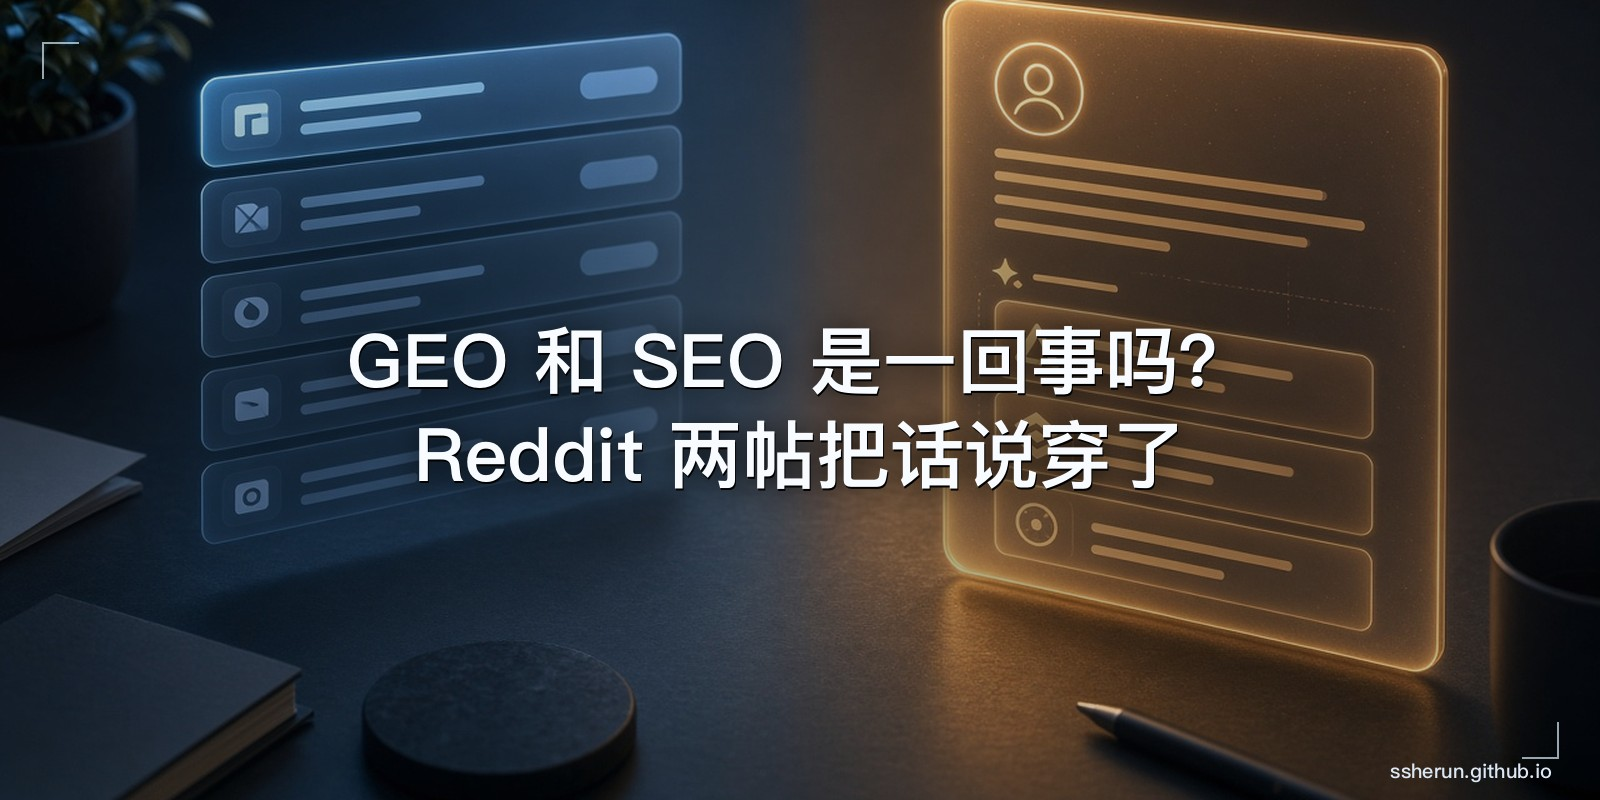
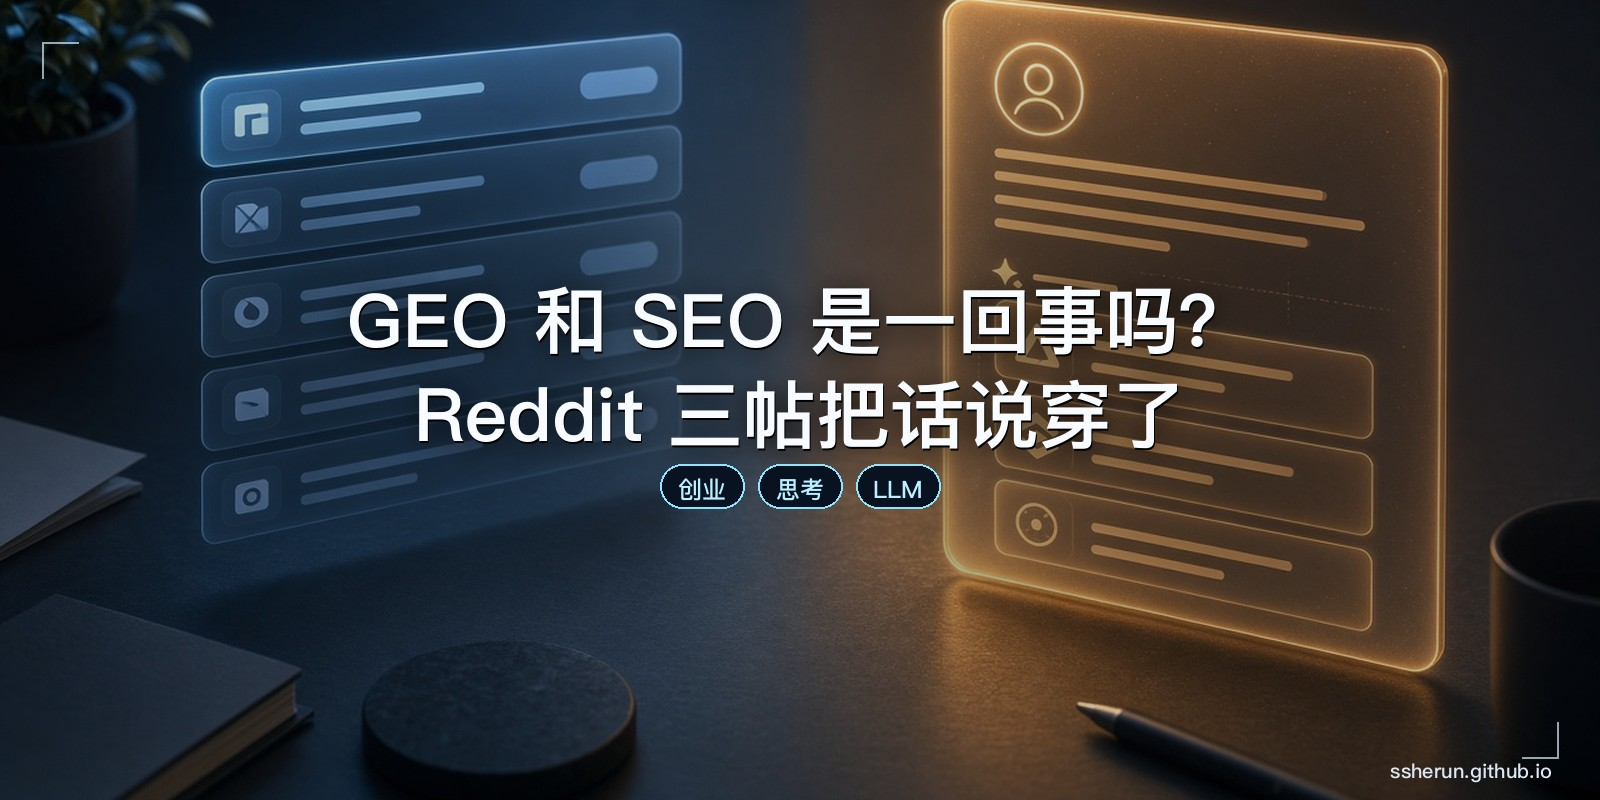
feat: expand geo-vs-seo post with r/aeo notes and charts

Changed region(s): [[0.2188, 0.3438, 0.7812, 0.6562]]

diff --git a/src/content/blog/geo-vs-seo-same-or-separate.en.md b/src/content/blog/geo-vs-seo-same-or-separate.en.md
@@ -1,6 +1,6 @@
 ---
-title: 'Is GEO really separate from SEO? Two Reddit threads say the quiet part out loud'
-description: 'r/seogrowth fights over whether GEO is separate; r/SEO_LLM asks what’s actually working. Shared foundation, forked goals. Google still drives most traffic; AI is a discovery channel — track leads, not mention vanity.'
+title: 'Is GEO really separate from SEO? Three Reddit threads say the quiet part out loud'
+description: 'r/seogrowth fights “new discipline?”; r/SEO_LLM asks what’s working; r/aeo adds dirty measurement and engine-specific pages. Shared base, forked goals; Google still feeds; mention ≠ citation.'
 pubDate: '2026-11-11'
 heroImage: '../../assets/cover-geo-vs-seo-same-or-separate-en.jpg'
 tags: ['创业', '思考', 'LLM']
@@ -11,14 +11,26 @@ translationKey: 'geo-vs-seo-same-or-separate'
 > Sources:
 > - [Not sure if GEO actually separate from SEO?](https://www.reddit.com/r/seogrowth/comments/1xsuplz/not_sure_if_geo_actually_separate_from_seo/) (r/seogrowth, ~4 upvotes / 17 comments)
 > - [What's actually working for you in SEO right now?](https://www.reddit.com/r/SEO_LLM/comments/1xsinnw/whats_actually_working_for_you_in_seo_right_now/) (r/SEO_LLM, ~13 upvotes / 10 comments)
+> - [Is GEO actually a new discipline, or just good SEO with a new name?](https://www.reddit.com/r/aeo/comments/1xrbs5h/is_geo_actually_a_new_discipline_or_just_good_seo/) (r/aeo, ~9 upvotes / 32 comments)
 
 Someone posted in an SEO growth sub: they’re not sure whether **GEO (Generative Engine Optimization)** is actually a discipline separate from SEO.
 
 Small thread. Clear fight. One side: GEO is traditional SEO done properly. The other: the technical base overlaps, but what you win has changed — from “where do I rank?” to “do I get written into the answer?”
 
-Next door in r/SEO_LLM, a blunter question landed: **what’s actually working right now — Google, ChatGPT, or something else?** Almost no acronym theology. Traffic, leads, and what people changed. Read together, the theory fight and the field notes line up.
+Two neighbors joined: r/SEO_LLM asks what’s actually working; r/aeo asks almost the same question, then digs into **how you sell it, how you measure it, and which pages each engine eats**. Read all three and the theory, field notes, and measurement traps line up.
 
-## Two camps in the comments
+### Chart 1: one supply chain, two exits
+
+```mermaid
+flowchart TB
+  Base[Shared foundation<br/>crawlable / structure / UX / content quality]
+  Base --> SEO[SEO exit<br/>blue-link rank · clicks · conversion]
+  Base --> GEO[GEO exit<br/>answer citations · brand name-drops · answer share]
+  SEO -.does not auto-carry.-> GEO
+  GEO -.can feed branded search.-> SEO
+```
+
+## Two camps (thread one)
 
 ![GEO as SEO rebrand vs forked outcomes](../../assets/inline-geo-vs-seo-same-or-separate-01-en.jpg)
 
@@ -45,6 +57,22 @@ This side doesn’t say SEO is useless. It says **intentional choices diverge**:
 4. **Overlap, not identity:** One comment claimed ~**80%** of sources AI assistants cite are *not* in Google’s top 10 for the same prompt. Another anecdote: ChatGPT recommended a law firm; Googling “truck accident lawyer Denver” put that firm near the bottom of page five.
 
 Their one-liner: **LLMs aren’t search engines.** They lean on search in part, but the weighting recipe differs.
+
+### Chart 2: big overlap ≠ the same job
+
+```mermaid
+flowchart LR
+  subgraph Overlap["~70–80% overlap (thread-three framing)"]
+    C[Clear answers]
+    E[Real expertise]
+    A[Trusted third-party mentions]
+    T[Crawlable / schema / UX]
+  end
+  SEO2[Classic SEO extras<br/>keyword maps · link strength · SERP position]
+  GEO2[GEO extras<br/>fixed prompt panel · unlinked mentions · per-engine pages]
+  Overlap --> SEO2
+  Overlap --> GEO2
+```
 
 ## My take: stop arguing “new discipline”; argue which funnel you optimize
 
@@ -79,16 +107,106 @@ The r/SEO_LLM post skips “is GEO a new field?” and asks “what are you livi
 4. **Off-site is more than backlinks:** brand mentions on relevant third-party sites, communities, and niche listicles keep coming up; local shops still lean on Google Business Profile + local SEO — a ChatGPT-sourced lead is nice, but advisors care more about calls and customers than mention vanity metrics.  
 5. **Measure down to leads:** a practical GA4 path — Traffic acquisition → Session source → search `chatgpt` / `perplexity` / `copilot` / `gemini`, then inspect landing pages (often how-to and comparison). Add a “how did you hear about us?” field — people often discover you in an AI answer, then return days later via Google or typed URL, and GA4 never joins the two.
 
+### Chart 3: traffic weight (field sketch from the thread)
+
+```mermaid
+pie showData
+  title Practitioners' traffic center of gravity (illustrative, not a survey)
+  "Google / classic search" : 75
+  "AI discovery (ChatGPT etc.)" : 15
+  "Other / direct" : 10
+```
+
 One line: thread two answers thread one’s fake question with field data — **not “abandon SEO”; “the SEO foundation still feeds you, and the AI exit needs its own writing, tracking, and proof.”**
+
+## Thread three (r/aeo): don’t spin a new service until you admit how dirty the numbers are
+
+r/aeo asks almost the same question, but comments sound like client diligence: **new discipline? how do you sell it? how do you measure it?**
+
+The majority answer is isomorphic:
+
+- **Extension, not revolution** — many put overlap at ~70–80%; keep GEO under SEO strategy with **its own report line and experiments**, don’t rush a separate retainer.  
+- **Three real differences:** ① you can appear in an answer with **zero visit**; ② **unlinked brand mentions** (forums, reviews, roundups) weigh more; ③ **engines cite different page types**, so a win on one doesn’t auto-carry.  
+- **Selling:** only break it out when the work actually changes — chasing review/forum mentions, not relabeling old content. Verticals can diverge hard (healthcare compliance was named); horizontal industries look more like SEO.
+
+### Chart 4: same buyer questions, different pages per engine
+
+One commenter ran 12 buyer questions as a snapshot (OpenAI via API, not the ChatGPT app — treat as illustrative):
+
+```mermaid
+flowchart TB
+  Q[12 buyer questions]
+  Q --> O[OpenAI side ~94 cited pages]
+  Q --> P[Perplexity side ~130 sources]
+  O --> O1[Mostly: vendors' own<br/>pricing / help / product pages]
+  O --> O2[Roundups / best-of: ~1 page]
+  P --> P1[Roundups / best-of: ≥ ~86 / 130]
+  P --> P2[Rest: other third-party pages]
+```
+
+Same comment draws a sharper split: **mention ≠ citation**. With search on, the model named 54 brands and cited the brand’s site for 47; with search off it named 59 and cited **none** — memory can say a name without giving a source. Dashboards that blend both into one “AI visibility score” lie.
+
+### Chart 5: three events, don’t mash into one score
+
+```mermaid
+flowchart LR
+  M[Mention<br/>brand named in the answer]
+  C[Citation<br/>clickable source]
+  R[Recommendation<br/>explicitly preferred]
+  M -.->|often mashed into| S[Single AI Visibility Score]
+  C -.-> S
+  R -.-> S
+  M --> Biz1[Brand awareness]
+  C --> Biz2[Verifiable provenance]
+  R --> Biz3[Closer to purchase intent]
+```
+
+### Chart 6: why the metrics are dirty — eight estimand problems
+
+One commenter listed eight reasons most “AI visibility / share of voice” numbers **describe your invented prompt list, not the market**:
+
+```mermaid
+flowchart TB
+  E1[No prompt population<br/>no denominator]
+  E2[No query volume<br/>obscure = common]
+  E3[Stochastic outputs<br/>one snapshot ≠ fact]
+  E4[Personalization / memory<br/>tool session ≠ real user]
+  E5[Wrong surface<br/>API ≠ consumer app]
+  E6[Mention / citation / rec conflated]
+  E7[Attribution nearly absent<br/>no click or arrives as Direct]
+  E8[No ground truth<br/>vendors cross-check vendors]
+  E1 --> Bad[A number that looks like market share]
+  E2 --> Bad
+  E3 --> Bad
+  E4 --> Bad
+  E5 --> Bad
+  E6 --> Bad
+  E7 --> Bad
+  E8 --> Bad
+  Bad --> Fix[Defensible narrow report:<br/>fixed cared-about prompts × repeated samples<br/>mentions vs citations split × label it as list-only]
+```
+
+The skeptics finish; the pragmatists agree: don’t call it market share. Promise only — **the questions the client actually cares about, run several times, log mention vs citation separately, watch competitors appear and pages start getting cited**. Revenue tie-back is the weakest link; GA4 source dimensions plus a “how did you hear about us?” field still patch the hole.
 
 ## A practical split (for people drowning in acronyms)
 
 ![Shared first, then the GEO extras](../../assets/inline-geo-vs-seo-same-or-separate-03-en.jpg)
 
+### Chart 7: a workflow you can run this week
+
+```mermaid
+flowchart TB
+  S1[1. Fix SEO foundation<br/>crawlable · IA · UX · clear answers]
+  S2[2. Add GEO moves<br/>entity consistency · quotable blocks<br/>listicle/forum mentions · per-engine pages]
+  S3[3. Dual dashboards<br/>SEO: rank / clicks<br/>GEO: prompt × mention × citation]
+  S4[4. Land on money<br/>GA4 AI sources · form self-report · leads / closes]
+  S1 --> S2 --> S3 --> S4
+```
+
 1. **Fix the SEO foundation first:** crawlable, clear IA, page experience, content that states answers. The B2B case in thread one moved AI visibility mostly with that; thread two confirms Google is still the main engine.  
-2. **Add GEO-specific moves:** entity consistency across site / directories / wiki-like pages, short extractable answer blocks, authoritative third-party mentions and listicle presence, platform-by-platform citation checks (AI Overviews ≠ ChatGPT ≠ Perplexity); prefer topical series over scattershot keyword posts.  
-3. **Split dashboards, land on money:** keep rank/click for SEO; add “prompt × cited? × how the brand is phrased”; verify AI landings in GA4 by source; patch attribution with a form self-report; watch leads and closes, not mention dashboards alone.  
-4. **Ignore acronym racketeering:** “Learn GEO or die / old SEO is worthless” usually sells fear. “Change nothing” ignores the citation funnel.
+2. **Add GEO-specific moves:** entity consistency across site / directories / wiki-like pages, short extractable answer blocks, authoritative third-party mentions and listicle presence, platform-by-platform citation checks (AI Overviews ≠ ChatGPT ≠ Perplexity); prefer topical series over scattershot keyword posts; respect engine skew (OpenAI leaning on first-party product pages, Perplexity leaning on listicles).  
+3. **Split dashboards, land on money:** keep rank/click for SEO; GEO uses “fixed cared-about prompts × repeated samples × mention/citation split” — and say aloud that it only describes that list; verify AI landings in GA4 by source; patch attribution with a form self-report; watch leads and closes, not mention dashboards alone.  
+4. **Ignore acronym racketeering:** “Learn GEO or die / old SEO is worthless” usually sells fear. “Change nothing” ignores the citation funnel. Thread three adds: don’t carve the same work into a “GEO service” for another retainer — unless the deliverable actually changed.
 
 The first OP asked whether GEO and SEO are separate. The best answer in that thread is the compromise said clearly:
 
@@ -98,7 +216,11 @@ Thread two adds the street version:
 
 > Google still feeds you; AI is already a discovery door — write more like answers, earn off-site mentions, and prove it with leads, not a new religion.
 
-Not a new religion. Same content supply chain — **with one more exit that has to be measured on its own.**
+Thread three adds the cold version:
+
+> Most “AI visibility” isn’t market share; at best it’s a sampled log of the prompts you care about — and mentions still aren’t citations.
+
+Not a new religion. Same content supply chain — **with one more exit that has to be measured on its own (and the measurement is dirty).**
 
 ## Related posts
 

diff --git a/src/content/blog/geo-vs-seo-same-or-separate.md b/src/content/blog/geo-vs-seo-same-or-separate.md
@@ -1,6 +1,6 @@
 ---
-title: 'GEO 和 SEO 是一回事吗？Reddit 两帖把话说穿了'
-description: 'r/seogrowth 吵「GEO 是否独立」；r/SEO_LLM 问「现在什么真的管用」。底座共享、目标分叉；Google 仍是主流量，AI 是发现渠道——盯线索，别只盯提及数。'
+title: 'GEO 和 SEO 是一回事吗？Reddit 三帖把话说穿了'
+description: 'r/seogrowth 吵是否独立；r/SEO_LLM 问什么管用；r/aeo 补上计量陷阱与引擎差异。底座共享、目标分叉；Google 仍主流量；引用≠排名，提及≠引用。'
 pubDate: '2026-11-11'
 heroImage: '../../assets/cover-geo-vs-seo-same-or-separate.jpg'
 tags: ['创业', '思考', 'LLM']
@@ -11,14 +11,26 @@ translationKey: 'geo-vs-seo-same-or-separate'
 > 讨论来源：
 > - [Not sure if GEO actually separate from SEO?](https://www.reddit.com/r/seogrowth/comments/1xsuplz/not_sure_if_geo_actually_separate_from_seo/)（r/seogrowth，约 4↑ / 17 评）
 > - [What's actually working for you in SEO right now?](https://www.reddit.com/r/SEO_LLM/comments/1xsinnw/whats_actually_working_for_you_in_seo_right_now/)（r/SEO_LLM，约 13↑ / 10 评）
+> - [Is GEO actually a new discipline, or just good SEO with a new name?](https://www.reddit.com/r/aeo/comments/1xrbs5h/is_geo_actually_a_new_discipline_or_just_good_seo/)（r/aeo，约 9↑ / 32 评）
 
 有人在 SEO 增长版发帖：自己不太确定，**GEO（Generative Engine Optimization）到底是不是独立于 SEO 的新学科**。
 
 帖子不大，但楼里吵得很清楚。一边说：GEO 就是把传统 SEO 做对了。另一边说：技术底座重叠，但你要赢的东西已经变了——从「排到第几」变成「会不会被写进答案里」。
 
-隔天隔壁 r/SEO_LLM 又有人问更土的问题：**现在真正管用的是 Google、ChatGPT，还是别的？** 楼里几乎不谈缩写神学，谈的是流量、线索和改了什么。两帖合读，理论吵完，实操也对上了。
+隔壁又接了两帖：r/SEO_LLM 问「现在什么真的管用」；r/aeo 几乎同题，但把**怎么卖、怎么量、不同引擎吃什么页面**吵得更细。三帖合读，理论、现场、计量陷阱都能对上。
 
-## 楼里两派
+### 图 1：一条供应链，两个出口
+
+```mermaid
+flowchart TB
+  Base[共享底座<br/>可爬 / 结构 / 体验 / 内容质量]
+  Base --> SEO[SEO 出口<br/>蓝链排名 · 点击 · 转化]
+  Base --> GEO[GEO 出口<br/>答案引用 · 品牌点名 · 答案份额]
+  SEO -.不等于自动.-> GEO
+  GEO -.可反哺品牌搜索.-> SEO
+```
+
+## 楼里两派（第一帖）
 
 ![GEO=SEO 换皮 vs 结果已分叉](../../assets/inline-geo-vs-seo-same-or-separate-01.jpg)
 
@@ -45,6 +57,22 @@ translationKey: 'geo-vs-seo-same-or-separate'
 4. **相关但不完全重合**：有人抛出经验——约 **80%** 被 AI 助手引用的来源，并不在 Google 同 query 的前 10；另有案例：ChatGPT 推荐一家律所，Google「truck accident lawyer Denver」把同一家排在第五页靠后。
 
 一句话概括这派：**LLMs aren't search engines.** 它们会部分依赖搜索，但权重配方不同。
+
+### 图 2：重叠很大，但不等于同一件事
+
+```mermaid
+flowchart LR
+  subgraph Overlap["约 70–80% 重叠（第三帖口径）"]
+    C[答得清楚]
+    E[真实专长]
+    A[可信第三方提及]
+    T[可爬 / schema / 体验]
+  end
+  SEO2[经典 SEO 额外<br/>关键词地图 · 外链强度 · SERP 位次]
+  GEO2[GEO 额外<br/>固定 prompt 面板 · 无链提及 · 分引擎页面]
+  Overlap --> SEO2
+  Overlap --> GEO2
+```
 
 ## 我怎么看：别争「是不是新学科」，争「你优化的是哪条漏斗」
 
@@ -79,16 +107,106 @@ r/SEO_LLM 那帖不问「GEO 算不算新学科」，问「你现在靠什么活
 4. **站外不止外链**：相关第三方站、社区、榜单/listicle 上的**品牌提及**被反复点名；本地生意则继续盯 Google Business Profile + 本地 SEO——有客户说「有人从 ChatGPT 找到我们并留下线索」，但顾问更在意电话和成交，不迷信提及数本身。  
 5. **计量要落到线索**：有人给出可立刻做的 GA4 路径——流量获客报告里把维度切到 Session source，搜 `chatgpt` / `perplexity` / `copilot` / `gemini`，再点进落地页；常见被引用的是 how-to 和对比页。同时建议在表单加「你怎么知道我们的」——很多人先在 AI 答案里看见你，再过几天用 Google 或直接输网址回来，GA4 串不上这两段。
 
+### 图 3：流量结构（楼里的现场图景）
+
+```mermaid
+pie showData
+  title 从业者口述的流量重心（示意，非精确调研）
+  "Google / 经典搜索" : 75
+  "AI 发现口（ChatGPT 等）" : 15
+  "其它 / 直接访问" : 10
+```
+
 一句话：第二帖在用现场数据回答第一帖的伪问题——**不是「要不要抛弃 SEO」；是「SEO 地基还在供血，AI 出口要另算、另写、另验」。**
+
+## 第三帖（r/aeo）：别急着拆服务，先认清「量」有多脏
+
+r/aeo 几乎是同一道题，但评论更像甲方会问的话：**算不算新学科？怎么卖？怎么量？**
+
+楼里主流答案几乎同构：
+
+- **扩展，不是革命**——多人口径是「70–80% 基本功重叠」；GEO 先挂在 SEO 策略下，**单独开一条报告和实验**，别急着当独立 retainer 卖。  
+- **真正不一样的三块**：① 被写进答案却可能**零访问**；② **无链品牌提及**（论坛、评测、对比文）权重上升；③ **每个引擎吃的页面不同**，赢一边不自动赢另一边。  
+- **卖法**：只有当你真在追评测站 / 论坛提及、而不是给旧内容换壳时，才值得单列；否则客户会识破「新标签、旧活」。垂直行业（有人提医疗合规）可能完全另一套——横业更像 SEO，竖业可能差很远。
+
+### 图 4：同一批买家问题，两个引擎吃的页面不一样
+
+楼里有人拿 12 个买家问题做快照（OpenAI 走 API，非 ChatGPT App，当作示意）：
+
+```mermaid
+flowchart TB
+  Q[12 个买家问题]
+  Q --> O[OpenAI 侧引用约 94 页]
+  Q --> P[Perplexity 侧引用约 130 源]
+  O --> O1[绝大多数：厂商自己的<br/>定价 / Help / 产品页]
+  O --> O2[榜单 / best-of：约 1 页]
+  P --> P1[榜单 / best-of：至少约 86 / 130]
+  P --> P2[其余：其它第三方与页面]
+```
+
+同帖还有一组更刺的对照：**点名（mention）≠ 引用（citation）**。开搜索时，模型点了 54 个品牌、其中 47 个连回品牌站；关搜索后点了 59 个品牌、**引用归零**——记忆里能报名字，但不给你来源。仪表盘若把两者揉成一个「AI 可见度分」，会骗人。
+
+### 图 5：三种事件，别合成一个分数
+
+```mermaid
+flowchart LR
+  M[Mention<br/>答案里点到品牌名]
+  C[Citation<br/>给出可点的来源]
+  R[Recommendation<br/>明确推荐你]
+  M -.->|常被仪表盘糊成| S[单一 AI Visibility Score]
+  C -.-> S
+  R -.-> S
+  M --> Biz1[品牌知晓]
+  C --> Biz2[可核验的出处]
+  R --> Biz3[购买意向更近]
+```
+
+### 图 6：计量为什么脏——八个估参问题（楼里硬核反对派）
+
+有人列了八条，说明多数「AI 可见度 / share of voice」**描述的是你自造的 prompt 清单，不是市场**：
+
+```mermaid
+flowchart TB
+  E1[无 prompt 总体<br/>没有分母]
+  E2[无 query volume<br/>冷门与热门等权]
+  E3[输出随机<br/>单次快照≠事实]
+  E4[个性化 / 记忆<br/>工具会话 ≠ 真用户]
+  E5[测错表面<br/>API ≠ 消费者 App]
+  E6[提及 / 引用 / 推荐混淆]
+  E7[归因近乎缺失<br/>无点击或变 Direct]
+  E8[无 ground truth<br/>厂商互相对拍]
+  E1 --> Bad[看起来像市场份额的数]
+  E2 --> Bad
+  E3 --> Bad
+  E4 --> Bad
+  E5 --> Bad
+  E6 --> Bad
+  E7 --> Bad
+  E8 --> Bad
+  Bad --> Fix[可辩护的窄报告：<br/>固定关心的 prompt × 多次抽样<br/>提及与引用分开记 × 写明只描述该清单]
+```
+
+反对派说完，务实派也认账：那就别叫市场份额。报告只承诺——**客户真正在乎的那批问题，跑若干次，分开记 mention / citation，用来看竞品何时冒头、哪篇开始被引**。绑收入是最弱的一环；GA4 源维度 +「怎么知道我们」表单，仍然是补洞手段。
 
 ## 可执行的拆法（给还在纠结缩写的人）
 
 ![先共享，再加码](../../assets/inline-geo-vs-seo-same-or-separate-03.jpg)
 
+### 图 7：本周就能跑的工作流
+
+```mermaid
+flowchart TB
+  S1[1. 补 SEO 地基<br/>可爬 · IA · 体验 · 说得清]
+  S2[2. 加 GEO 动作<br/>实体一致 · 可摘抄答案块<br/>榜单 / 论坛提及 · 分引擎页面]
+  S3[3. 双看板<br/>SEO：排名 / 点击<br/>GEO：prompt × 提及 × 引用]
+  S4[4. 落到钱<br/>GA4 AI 源 · 表单自报 · 线索 / 成交]
+  S1 --> S2 --> S3 --> S4
+```
+
 1. **先把 SEO 地基补齐**：可爬、信息架构、页面体验、说得清的内容。楼里那家 B2B 客户几乎只靠这个就抬了 AI 可见度；第二帖也确认 Google 仍是主引擎。  
-2. **再加 GEO 特有动作**：实体一致（官网 / 目录 / 百科口径对齐）、可摘抄的短答案块、权威第三方提及与榜单露出、按平台看引用（Google AI Overview ≠ ChatGPT ≠ Perplexity）；内容侧用系列专题替代散篇关键词文。  
-3. **分开看板，落到钱**：SEO 看板继续看排名与点击；另建「prompt × 是否被引用 × 如何表述品牌」；用 GA4 源维度核对 AI 落地页；用表单自报发现路径补归因；最终盯线索与成交，别只盯提及仪表盘。  
-4. **警惕缩写勒索**：谁跟你说「不会 GEO 就会死、旧 SEO 全废」，多半在卖恐惧。谁说「什么都不用改」，则忽略了 citation 漏斗。
+2. **再加 GEO 特有动作**：实体一致（官网 / 目录 / 百科口径对齐）、可摘抄的短答案块、权威第三方提及与榜单露出、按平台看引用（Google AI Overview ≠ ChatGPT ≠ Perplexity）；内容侧用系列专题替代散篇关键词文；认清 OpenAI 更吃自家产品页、Perplexity 更吃 listicle 这类**引擎差异**。  
+3. **分开看板，落到钱**：SEO 看板继续看排名与点击；GEO 用「固定关心的 prompt × 多次抽样 × 提及/引用分列」——并写明这只描述该清单；用 GA4 源维度核对 AI 落地页；用表单自报发现路径补归因；最终盯线索与成交，别只盯提及仪表盘。  
+4. **警惕缩写勒索**：谁跟你说「不会 GEO 就会死、旧 SEO 全废」，多半在卖恐惧。谁说「什么都不用改」，则忽略了 citation 漏斗。第三帖补充：别为了多收一笔 retainer 把同一套活拆成「GEO 服务」——除非交付物真的变了。
 
 第一帖楼主问「到底分不分开」。楼里最好的答案其实是一句折中，但说透了：
 
@@ -98,7 +216,11 @@ r/SEO_LLM 那帖不问「GEO 算不算新学科」，问「你现在靠什么活
 
 > Google 还在供血；AI 已是发现口——写得更像答案、站外有提及、用线索验，而不是换宗教。
 
-这不是新宗教，是同一条内容供应链上，**多了一个必须单独计量的出口**。
+第三帖再补一句更冷的：
+
+> 多数「AI 可见度」不是市场份额；最多是你关心的那批问题上的抽样日志——提及与引用还得拆开记。
+
+这不是新宗教，是同一条内容供应链上，**多了一个必须单独计量（且计量本身很脏）的出口**。
 
 ## 相关文章
 
